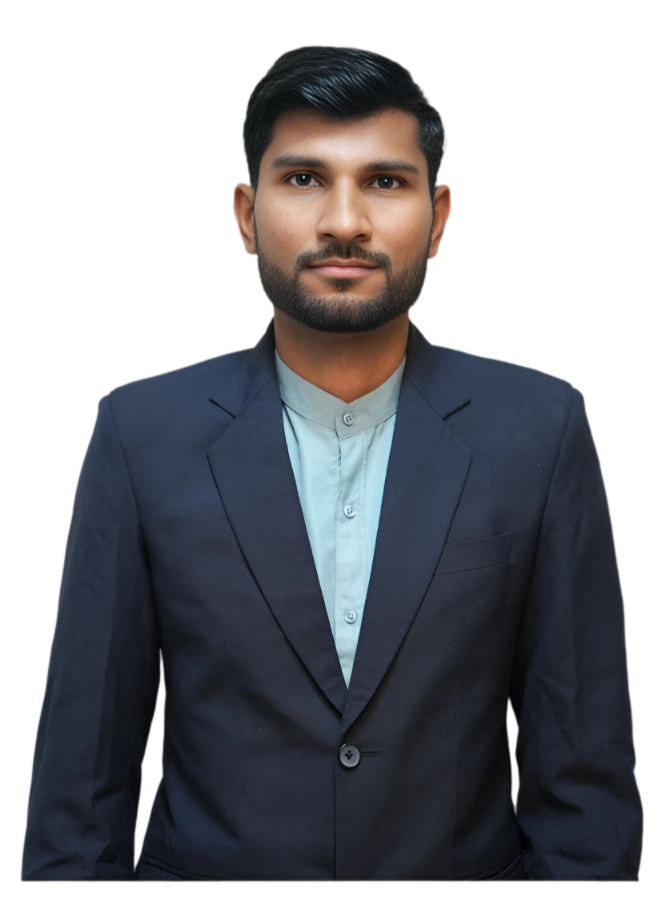
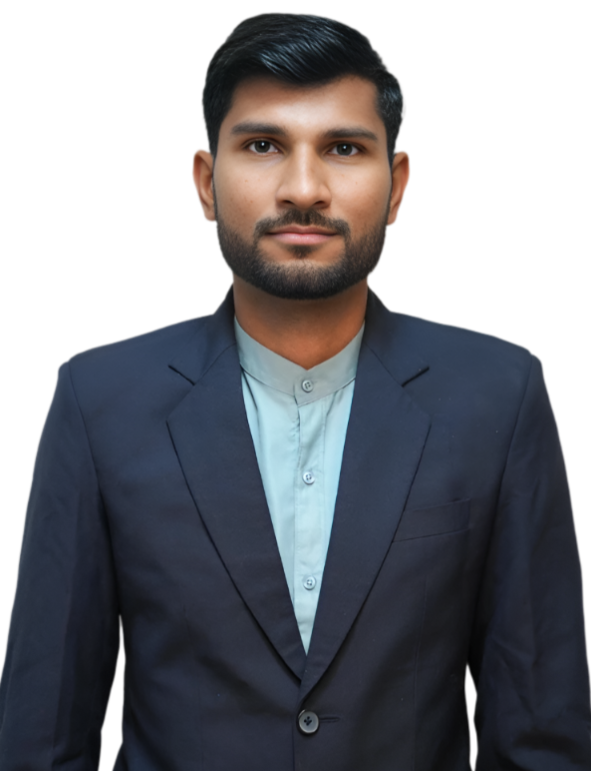
changes by Dr. Sanskruti Patel

diff --git a/index.html b/index.html
@@ -2127,7 +2127,7 @@
 				</div>
 				<div class="col-sm-6 col-md-3 team-single-info-02 item ">
 					<div class="teacher-body">
-						<img src="images/faculty_photo/JAYPANCHAL.webp" alt="" style="height:263px;"
+						<img src="images/faculty_photo/JAYPANCHAL - Copy.webp" alt="" style="height:263px;"
 							class="img-responsive">
 						<div class="teachars-info">
 							<h3>Jay Panchal</h3>
